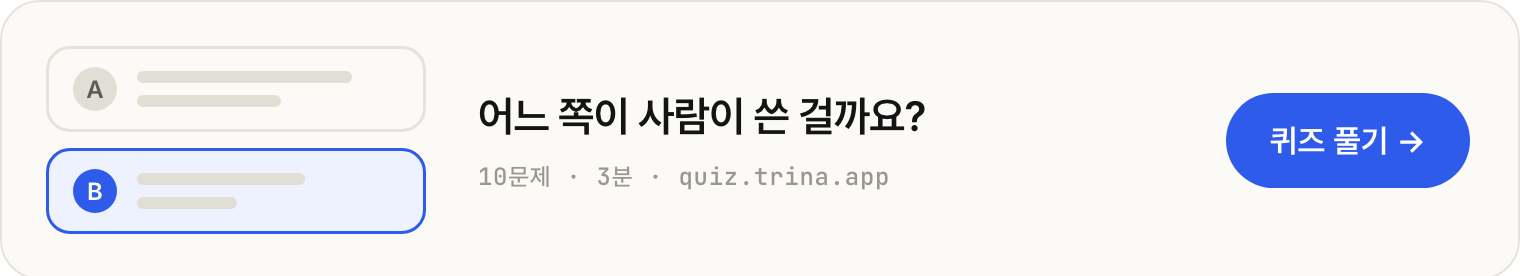
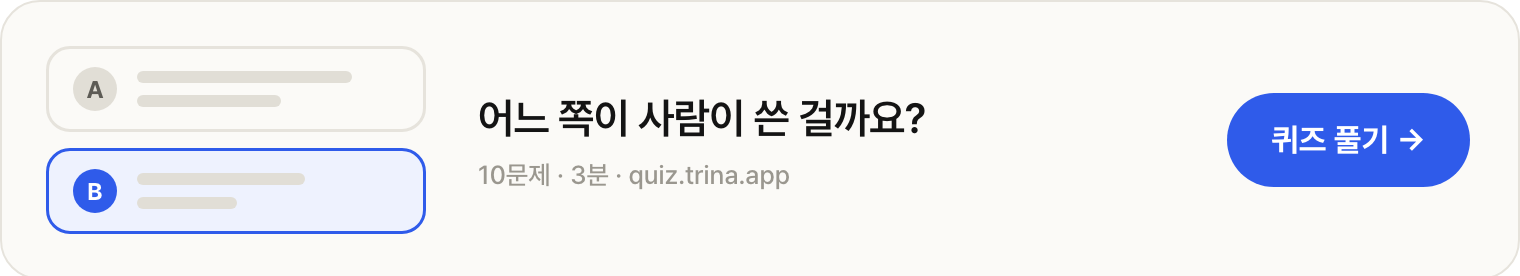
README figures in Pretendard; contributing: languages, subreddits and communities

diff --git a/CONTRIBUTING.md b/CONTRIBUTING.md
@@ -1,13 +1,28 @@
 # Contributing
 
-The most useful thing you can add is a community: see [communities/README.md](communities/README.md). Run one command, fill in the community's rules from its rules page, and open a PR.
+We take three kinds of additions. Each one comes with evidence, the way the existing ones did.
 
-Other welcome PRs:
-- **Benchmark results for another humanizer or prompt.** Generate one output per post in a held-out set, judge them with the scripts in [benchmark/](benchmark/), and include the scores.
-- **A new site.** Add a reader like `lib/reddit.mjs` or `lib/clien.mjs`, plus a test on held-out threads, before claiming it works.
+## A subreddit
+
+One profile per subreddit in [communities/reddit/](communities/reddit/). Run one command, fill in the subreddit's rules from its rules page (including whether it bans or requires disclosure of AI-written text), and open a PR. See [communities/README.md](communities/README.md).
+
+## A language
+
+The prompts are in English and are used unchanged for every language. They have been tested blind in English, Korean, Chinese, Spanish and Indonesian. To add a language:
+- Run a blind test on held-out threads in that language. Copy [benchmark/indonesian-comments/](benchmark/indonesian-comments/): write the protocol before collecting, keep real posts and comments out of the repo (links go in `ids.json`), compare against the best-known humanizer for that language with the same real samples, and report what the judges said even if it doesn't pass.
+- Add profiles for the subreddits you tested.
+- If you are a native speaker: a `README.<lang>.md` and the quiz strings in [quiz/public/index.html](quiz/public/index.html) are welcome too.
+
+## A community outside Reddit
+
+Forums and boards like Clien. Add a reader like [lib/clien.mjs](skills/community-humanizer/lib/clien.mjs) or [lib/reddit.mjs](skills/community-humanizer/lib/reddit.mjs), a profile in `communities/<site>/`, and a blind test on held-out threads before claiming it works.
+
+## Also welcome
+
+- **Benchmark results for another humanizer or prompt.** Generate one output per thread in a held-out set, judge them with the scripts in [benchmark/](benchmark/), and include the scores.
 - **Bug fixes.**
 
-Changing a prompt in `lib/prompts.mjs` changes what was measured. Please include a blind test against the current prompt on posts that weren't used while writing the change.
+Changing a prompt in `lib/prompts.mjs` changes what was measured. Please include a blind test against the current prompt on threads that weren't used while writing the change.
 
 Things we won't merge:
 - auto-posting

diff --git a/README.md b/README.md
@@ -127,6 +127,15 @@ Each subreddit has a small profile in [communities/](communities/): how often ea
 
 [benchmark/](benchmark/) holds six tests (English, Chinese, Spanish and Indonesian Reddit replies, Korean Clien replies, and posts in English and Korean): the protocol written before each run, the scripts, every generated text and every judge's score. The real comments and posts are not redistributed; `ids.json` links to each source thread. Want to test your own humanizer on the same threads? Open a PR with its outputs.
 
+## Contributing
+
+PRs are welcome for:
+- **A subreddit**: a profile in [communities/](communities/) (one command and a look at the rules page).
+- **A language**: a blind test in that language, like [benchmark/indonesian-comments/](benchmark/indonesian-comments/). If it's your native language, a README and the quiz strings too.
+- **A community outside Reddit**: a reader like [lib/clien.mjs](skills/community-humanizer/lib/clien.mjs), a profile, and a test on threads that weren't used for tuning.
+
+Details in [CONTRIBUTING.md](CONTRIBUTING.md).
+
 ## License
 
 MIT

diff --git a/README.id.md b/README.id.md
@@ -127,6 +127,15 @@ Setiap subreddit punya profil kecil di [communities/](communities/): seberapa se
 
 [benchmark/](benchmark/) berisi protokol yang ditulis sebelum setiap pengujian, skrip, semua teks yang dihasilkan, dan skor setiap juri. Komentar dan postingan asli tidak disebarkan ulang. `ids.json` berisi tautan ke setiap thread sumber. Ingin menguji humanizer Anda sendiri dengan thread yang sama? Buka PR dengan hasilnya.
 
+## Kontribusi
+
+PR yang kami terima:
+- **Subreddit baru**: satu profil di [communities/](communities/) (satu perintah dan cek halaman aturannya).
+- **Bahasa baru**: uji buta dalam bahasa itu, seperti [benchmark/indonesian-comments/](benchmark/indonesian-comments/). Kalau itu bahasa ibu Anda, README dan teks kuisnya juga kami terima.
+- **Komunitas di luar Reddit**: pembaca seperti [lib/clien.mjs](skills/community-humanizer/lib/clien.mjs), satu profil, dan uji dengan thread yang tidak dipakai untuk menyetel prompt.
+
+Detailnya ada di [CONTRIBUTING.md](CONTRIBUTING.md).
+
 ## Lisensi
 
 MIT

diff --git a/README.zh-CN.md b/README.zh-CN.md
@@ -127,6 +127,15 @@ node skills/community-humanizer/bin/voice.mjs post --to r/selfhosted --title "Is
 
 [benchmark/](benchmark/) 里有每次测试前写好的方案、脚本、所有生成结果和每个评委的打分。真实的评论和帖子不随仓库分发，`ids.json` 里有每个原帖的链接。想用同样的帖子测你自己的 humanizer？欢迎把输出结果提个 PR。
 
+## 参与贡献
+
+欢迎提 PR：
+- **新的 subreddit**：在 [communities/](communities/) 里加一个配置（一条命令，再看一眼规则页）。
+- **新的语言**：用这门语言做一次盲测，做法参考 [benchmark/indonesian-comments/](benchmark/indonesian-comments/)。如果这是你的母语，也欢迎补上 README 和答题文案。
+- **Reddit 以外的社区**：一个像 [lib/clien.mjs](skills/community-humanizer/lib/clien.mjs) 这样的读取模块、一份配置，以及一次用没参与调试的帖子做的测试。
+
+详见 [CONTRIBUTING.md](CONTRIBUTING.md)。
+
 ## 开源协议
 
 MIT
